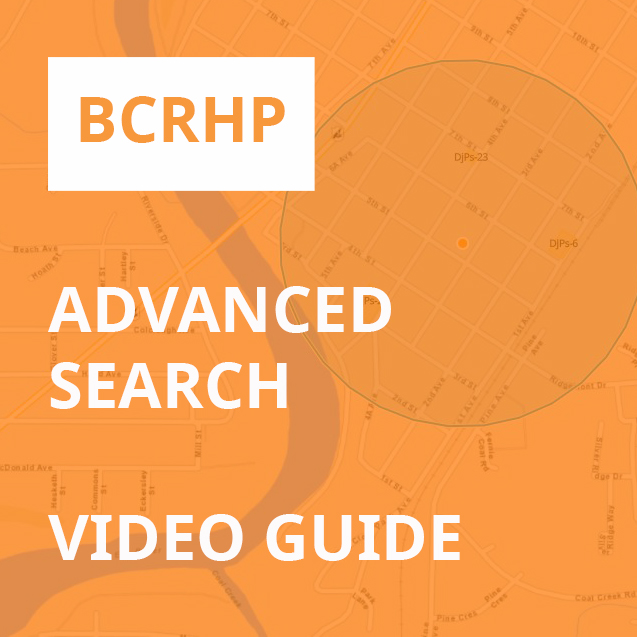
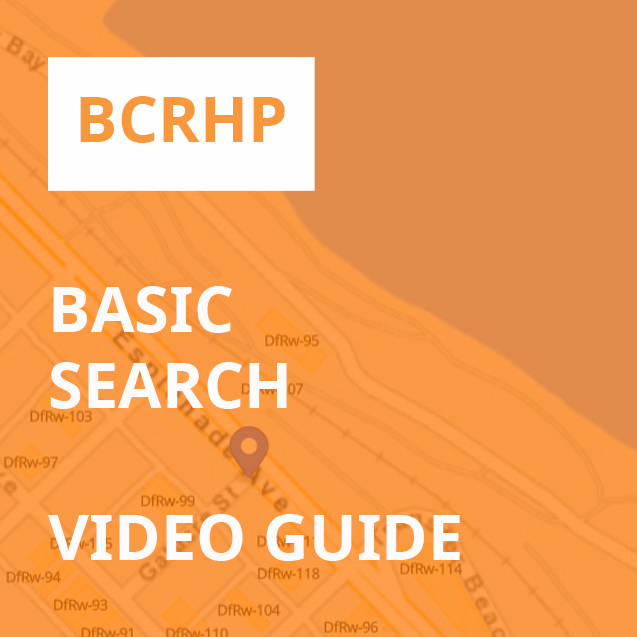
944 - Updated landing page with requested changes
- Reorder manual image order
- Adjust spacing between header and text for sections

diff --git a/src/bcrhp/bcrhp/templates/index.htm b/src/bcrhp/bcrhp/templates/index.htm
@@ -251,17 +251,17 @@ along with this program. If not, see <http://www.gnu.org/licenses/>.
                             <div class="app-info-manual">
                                 <div class="app-info-manual-item">
                                     <a href="">
-                                        <img alt="How to Search Guide" src="{% webpack_static 'img/front/manual-with-text-1.jpg' %}" />
+                                        <img alt="How to Search PDF Guide" src="{% webpack_static 'img/front/manual-with-text-1.jpg' %}" />
                                     </a>
                                 </div>
                                 <div class="app-info-manual-item">
                                     <a href="">
-                                        <img alt="Advanced Search Guide" src="{% webpack_static 'img/front/manual-with-text-2.jpg' %}" />
+                                        <img alt="Basic Search Video Guide" src="{% webpack_static 'img/front/manual-with-text-2.jpg' %}" />
                                     </a>
                                 </div>
                                 <div class="app-info-manual-item">
                                     <a href="">
-                                        <img alt="Basic Search Guide" src="{% webpack_static 'img/front/manual-with-text-3.jpg' %}" />
+                                        <img alt="Advanced Search Video Guide" src="{% webpack_static 'img/front/manual-with-text-3.jpg' %}" />
                                     </a>
                                 </div>
                             </div>

diff --git a/src/common/media/css/bc_index.css b/src/common/media/css/bc_index.css
@@ -97,7 +97,7 @@
 }
 
 .app-info-block {
-    min-height: 600px;
+    min-height: 300px;
     padding: 80px 100px 140px 100px;
     background: #fff;
     border-top: 1px solid #ddd;
@@ -245,7 +245,7 @@ h3.app-info-block-title {
     font-weight: 700;
     font-size: 24px;
     line-height: 36px;
-    margin-bottom: 30px;
+    margin-bottom: 12px;
     /* identical to box height, or 150% */
     display: flex;
     align-items: center;
